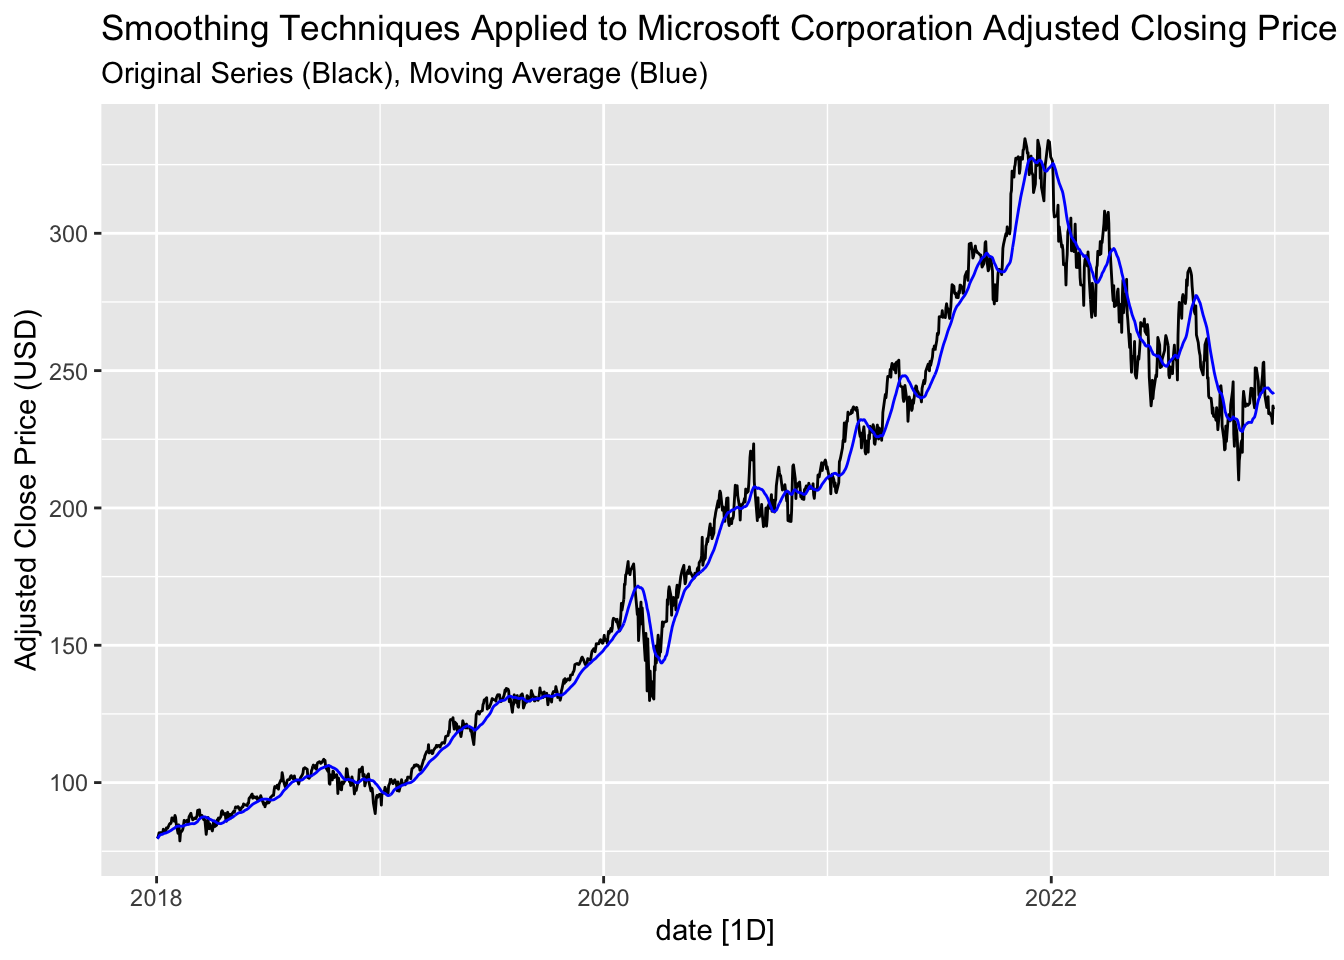
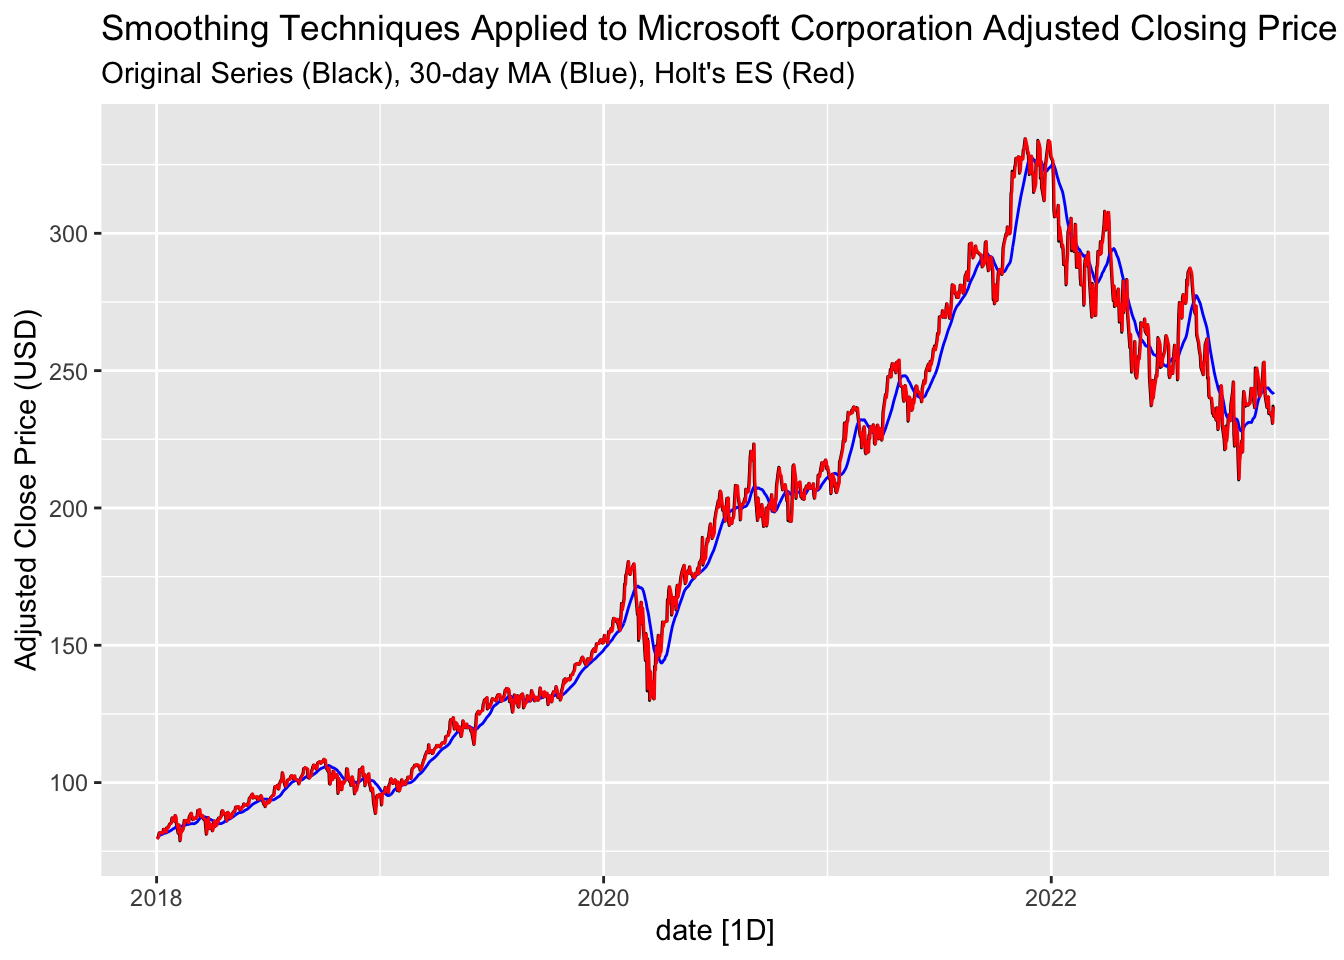
2-6-1

diff --git a/_site/activity7.html b/_site/activity7.html
@@ -317,7 +317,6 @@ y_t = T_t \times S_t \times R_t
 <p><strong>Exponential Smoothing</strong>:</p>
 <ul>
 <li>Applies decreasing weights to older observations, making it responsive to recent changes.</li>
-<li>Extensions like Holt-Winters methods adapt to trends and seasonality, making it useful for forecasting.</li>
 </ul>
 </li>
 </ol></section><section id="applied-example-with-tidyverts-ecosystem" class="level3"><h3 class="anchored" data-anchor-id="applied-example-with-tidyverts-ecosystem">Applied Example with Tidyverts Ecosystem</h3>
@@ -353,13 +352,22 @@ y_t = T_t \times S_t \times R_t
 <span><span class="va">stock_ts</span> <span class="op">&lt;-</span> <span class="va">stock_ts</span> <span class="op"><a href="https://magrittr.tidyverse.org/reference/pipe.html">%&gt;%</a></span></span>
 <span>  <span class="fu">mutate</span><span class="op">(</span>Moving_Avg <span class="op">=</span> <span class="fu">slider</span><span class="fu">::</span><span class="fu"><a href="https://slider.r-lib.org/reference/slide.html">slide_dbl</a></span><span class="op">(</span><span class="va">Adjusted_Close</span>, <span class="va">mean</span>, .before <span class="op">=</span> <span class="fl">29</span>, .after <span class="op">=</span> <span class="fl">0</span><span class="op">)</span><span class="op">)</span></span>
 <span></span>
-<span><span class="co"># Plot the original series, moving average</span></span>
+<span><span class="co"># Fit Holt's method using fable</span></span>
+<span><span class="va">fit_holt</span> <span class="op">&lt;-</span> <span class="va">stock_ts</span> <span class="op"><a href="https://magrittr.tidyverse.org/reference/pipe.html">%&gt;%</a></span></span>
+<span>  <span class="fu"><a href="https://fabletools.tidyverts.org/reference/model.html">model</a></span><span class="op">(</span>Holt <span class="op">=</span> <span class="fu"><a href="https://fable.tidyverts.org/reference/ETS.html">ETS</a></span><span class="op">(</span><span class="va">Adjusted_Close</span> <span class="op">~</span> <span class="fu">error</span><span class="op">(</span><span class="st">"A"</span><span class="op">)</span> <span class="op">+</span> <span class="fu"><a href="https://rdrr.io/pkg/astsa/man/trend.html">trend</a></span><span class="op">(</span><span class="st">"A"</span><span class="op">)</span> <span class="op">+</span> <span class="fu">season</span><span class="op">(</span><span class="st">"N"</span><span class="op">)</span><span class="op">)</span><span class="op">)</span></span>
 <span></span>
+<span><span class="co"># Extract fitted values</span></span>
+<span><span class="va">holt_fc</span> <span class="op">&lt;-</span> <span class="va">fit_holt</span> <span class="op"><a href="https://magrittr.tidyverse.org/reference/pipe.html">%&gt;%</a></span> </span>
+<span>  <span class="fu"><a href="https://generics.r-lib.org/reference/augment.html">augment</a></span><span class="op">(</span><span class="op">)</span> <span class="op"><a href="https://magrittr.tidyverse.org/reference/pipe.html">%&gt;%</a></span> </span>
+<span>  <span class="fu">select</span><span class="op">(</span><span class="va">date</span>, <span class="va">.fitted</span><span class="op">)</span></span>
+<span></span>
+<span><span class="co"># Plot the original series, moving average</span></span>
 <span><span class="va">stock_ts</span> <span class="op"><a href="https://magrittr.tidyverse.org/reference/pipe.html">%&gt;%</a></span></span>
 <span>  <span class="fu"><a href="https://ggplot2.tidyverse.org/reference/autoplot.html">autoplot</a></span><span class="op">(</span><span class="va">Adjusted_Close</span>, color <span class="op">=</span> <span class="st">"black"</span><span class="op">)</span> <span class="op">+</span></span>
 <span>  <span class="fu"><a href="https://ggplot2.tidyverse.org/reference/autolayer.html">autolayer</a></span><span class="op">(</span><span class="va">stock_ts</span>, <span class="va">Moving_Avg</span>, color <span class="op">=</span> <span class="st">"blue"</span><span class="op">)</span> <span class="op">+</span></span>
+<span>  <span class="fu"><a href="https://ggplot2.tidyverse.org/reference/autolayer.html">autolayer</a></span><span class="op">(</span><span class="va">holt_fc</span>, <span class="va">.fitted</span>, color <span class="op">=</span> <span class="st">"red"</span><span class="op">)</span> <span class="op">+</span></span>
 <span>  <span class="fu">labs</span><span class="op">(</span>title <span class="op">=</span> <span class="st">"Smoothing Techniques Applied to Apple Inc. Adjusted Closing Price"</span>,</span>
-<span>       subtitle <span class="op">=</span> <span class="st">"Original Series (Black), Moving Average (Blue)"</span>,</span>
+<span>       subtitle <span class="op">=</span> <span class="st">"Original Series (Black), 30-day MA (Blue), Holt's ES (Red)"</span>,</span>
 <span>       y <span class="op">=</span> <span class="st">"Adjusted Close Price (USD)"</span><span class="op">)</span></span></code><button title="Copy to Clipboard" class="code-copy-button"><i class="bi"></i></button></pre></div>
 <div class="cell-output-display">
 <div>
@@ -416,13 +424,22 @@ autoplot(decomp) +
 msft_ts <- msft_ts %>%
   mutate(Moving_Avg = slider::slide_dbl(Adjusted_Close, mean, .before = 29, .after = 0))
 
+# Fit Holt's method using fable
+fit_holt <- msft_ts %>%
+  model(Holt = ETS(Adjusted_Close ~ error("A") + trend("A") + season("N")))
 
-# Plot the original series, moving average
+# Extract fitted values
+holt_fc <- fit_holt %>% 
+  augment() %>% 
+  select(date, .fitted)
+
+# Plot with Holt smoothing
 msft_ts %>%
   autoplot(Adjusted_Close, color = "black") +
   autolayer(msft_ts, Moving_Avg, color = "blue") +
+  autolayer(holt_fc, .fitted, color = "red") +
   labs(title = "Smoothing Techniques Applied to Microsoft Corporation Adjusted Closing Price",
-       subtitle = "Original Series (Black), Moving Average (Blue)",
+       subtitle = "Original Series (Black), 30-day MA (Blue), Holt's ES (Red)",
        y = "Adjusted Close Price (USD)")
 ```
 
